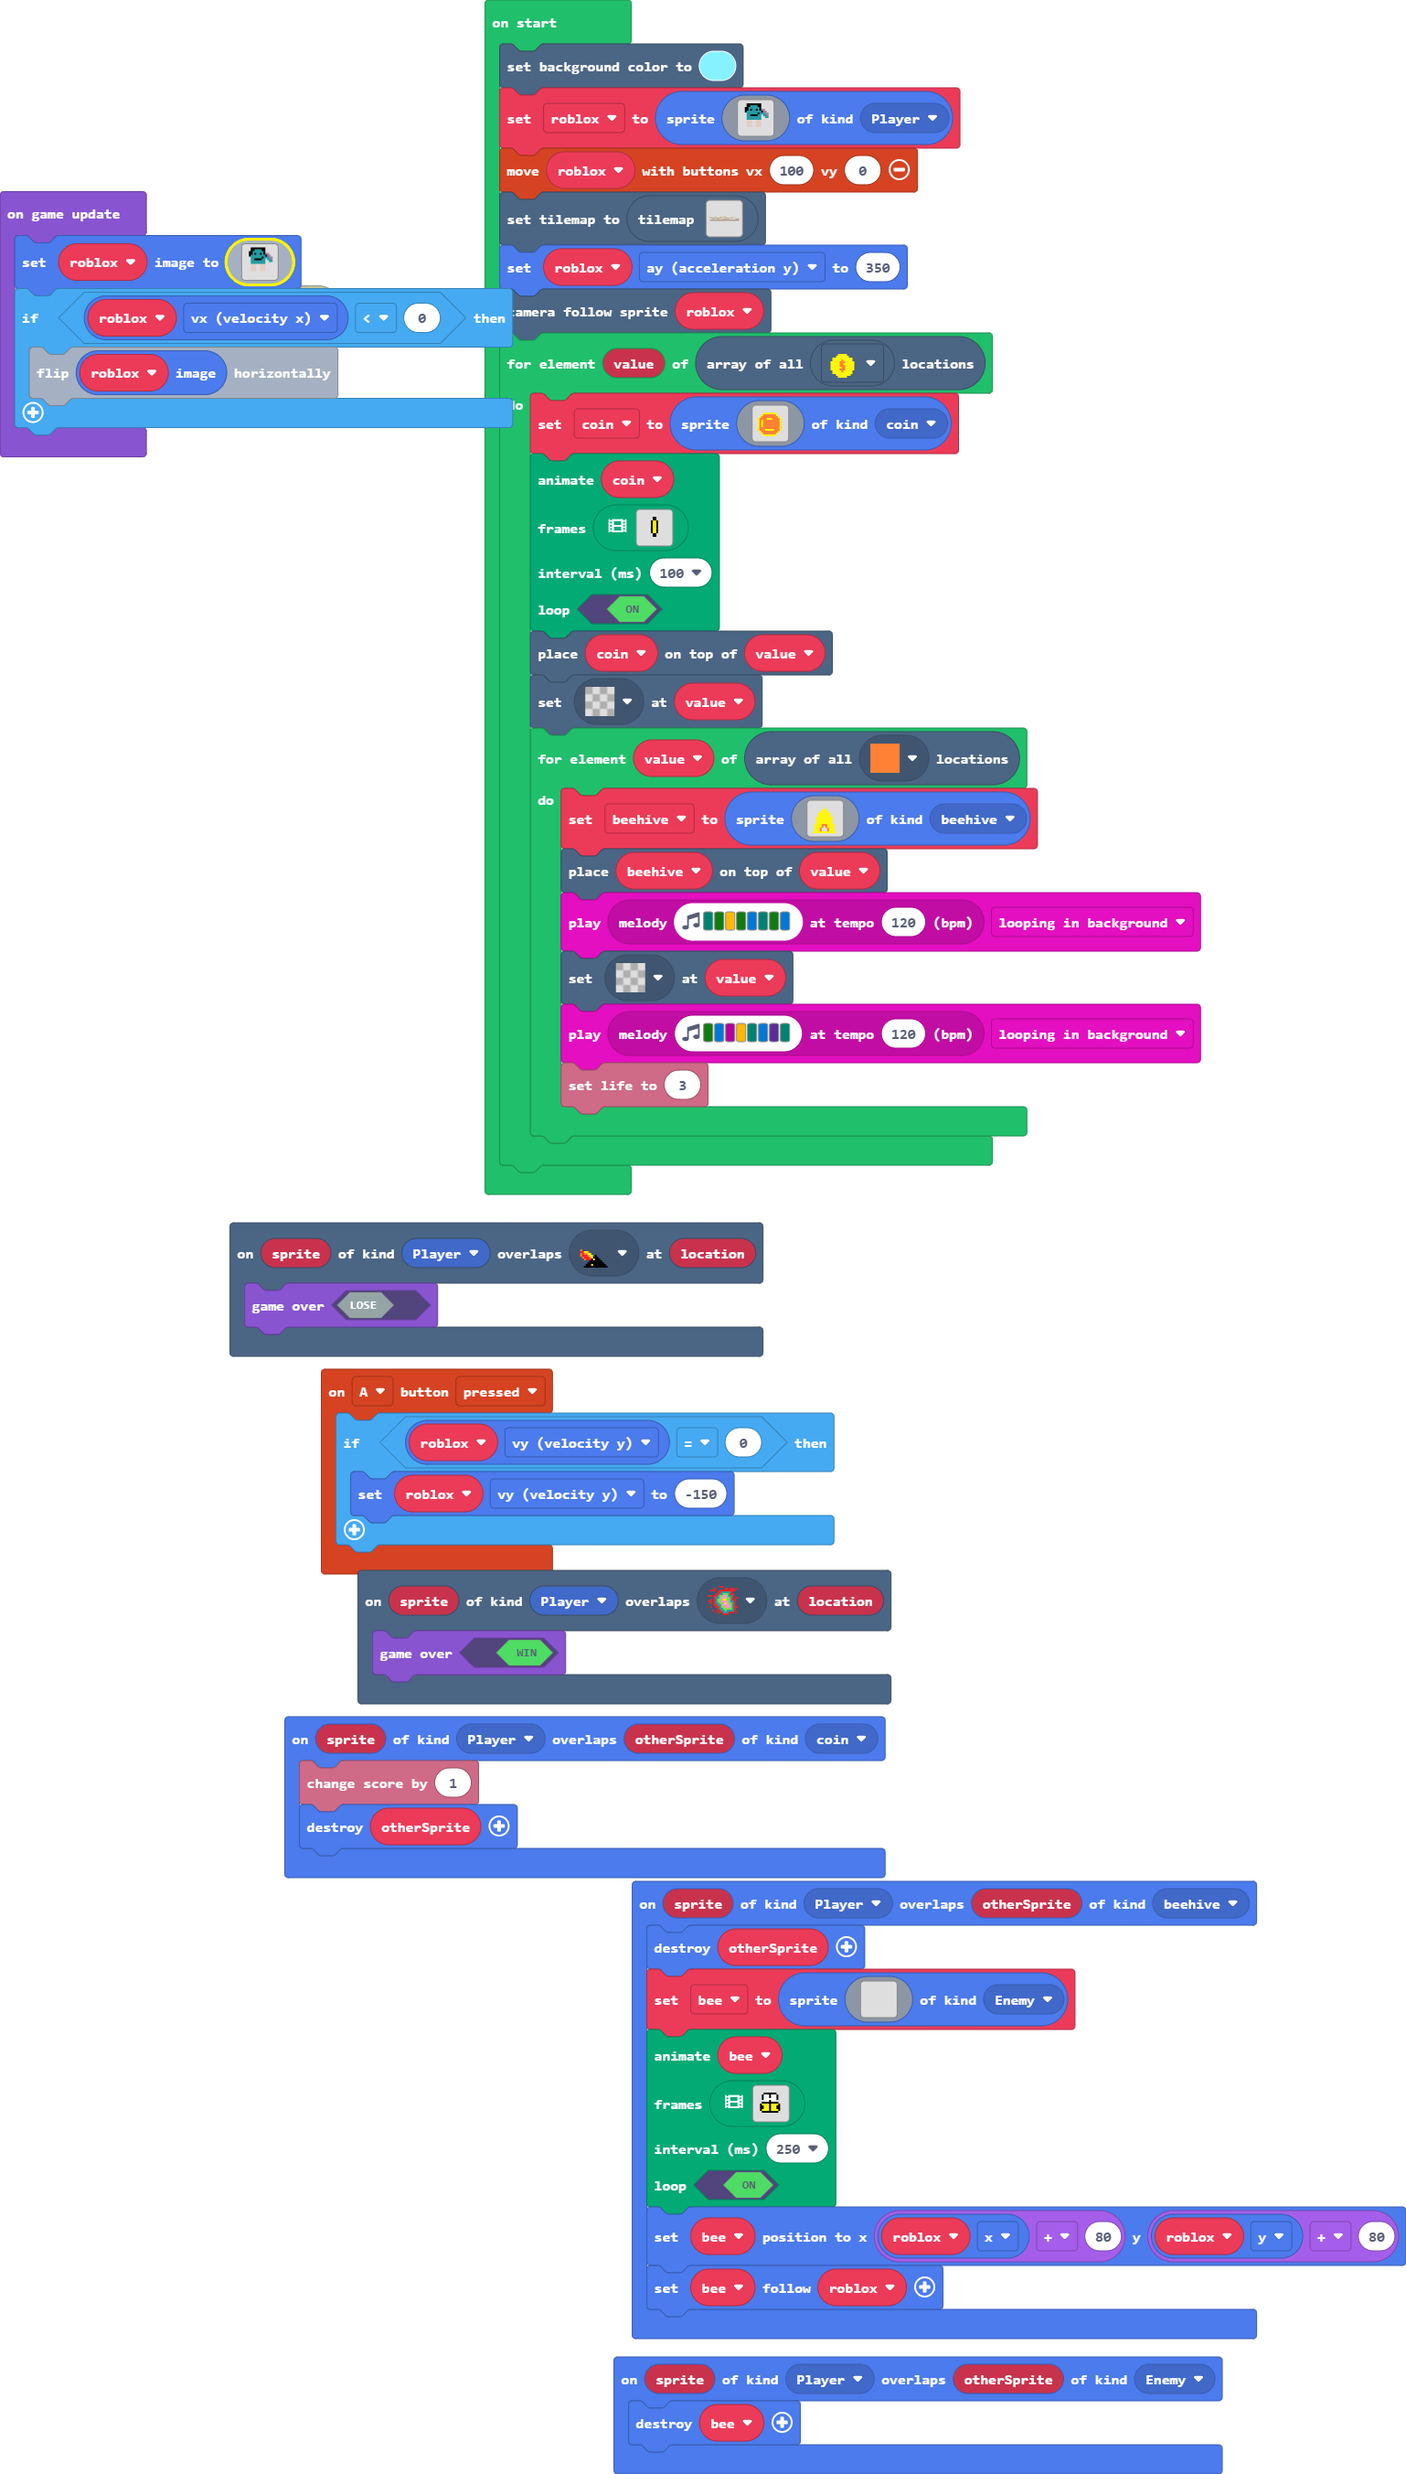
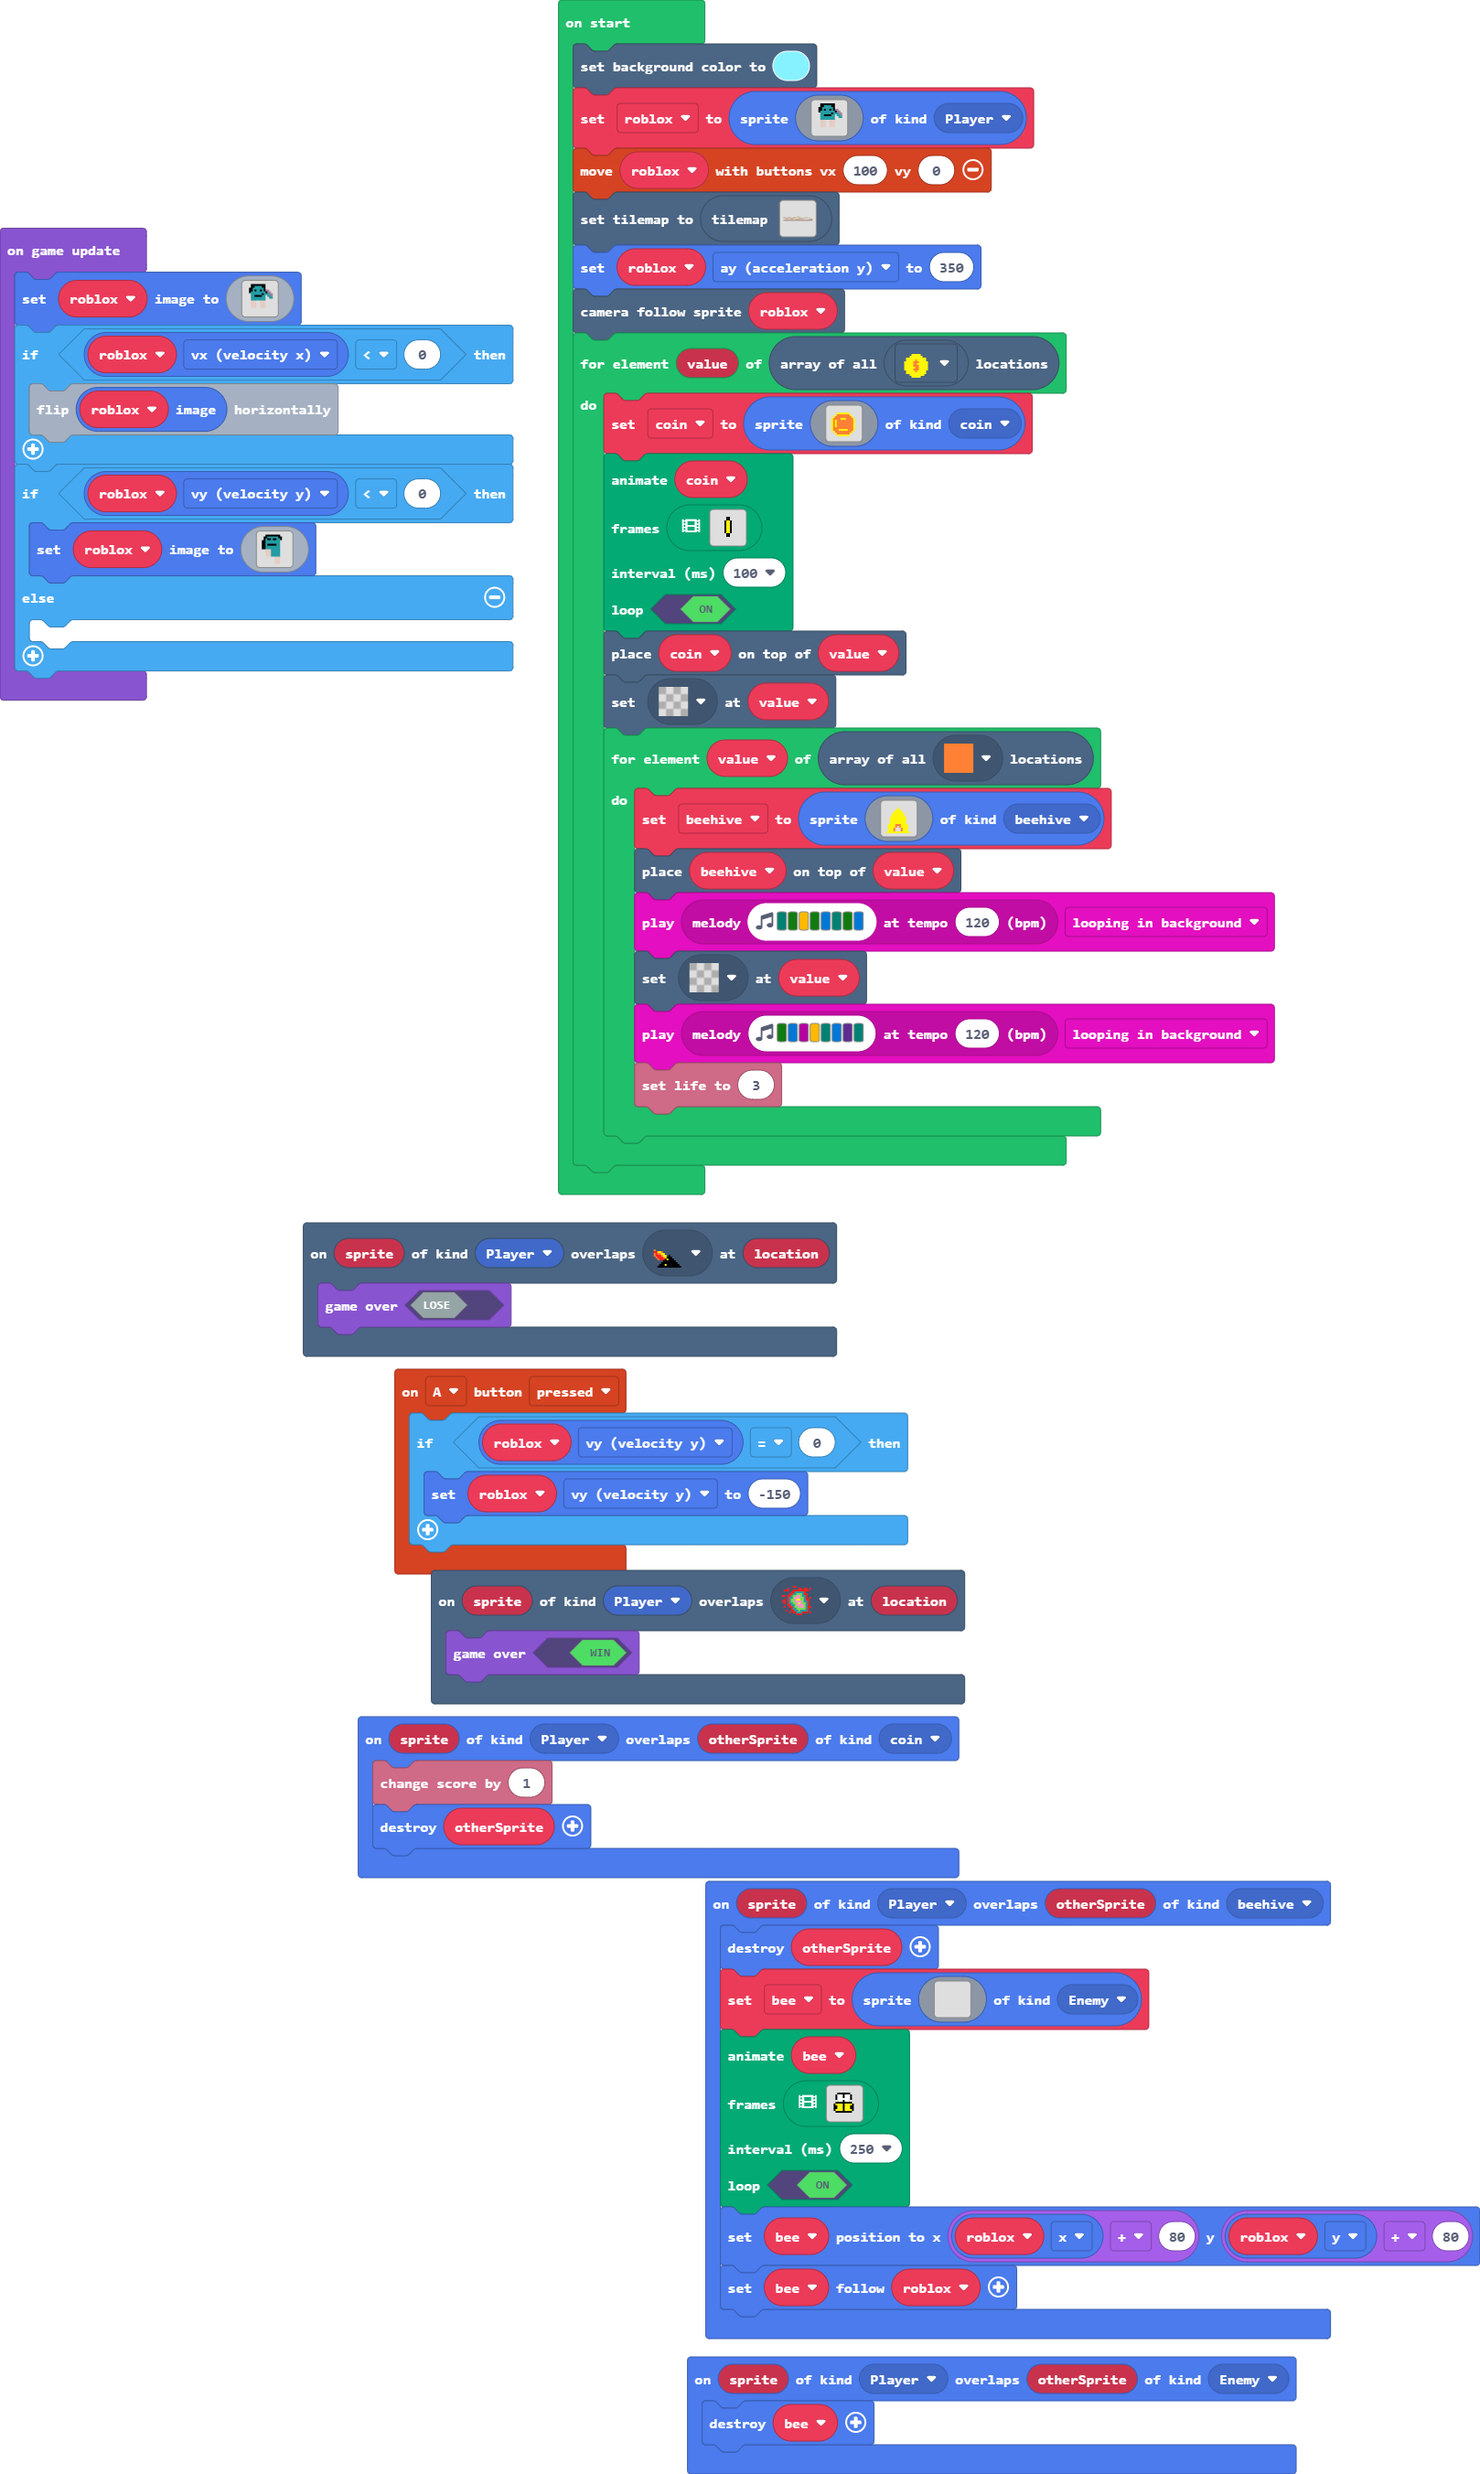
movement added

diff --git a/main.ts b/main.ts
@@ -304,4 +304,26 @@ game.onUpdate(function () {
     if (roblox.vx < 0) {
         roblox.image.flipX()
     }
+    if (roblox.vy < 0) {
+        roblox.setImage(img`
+            . . . f f f f f f f f . . . . . 
+            . . f f 6 6 6 6 6 6 f f . . . . 
+            . . f 6 f f 6 f f 6 6 f . . . . 
+            . f f 6 6 6 6 6 6 6 6 . . . . . 
+            . f f 6 6 6 6 6 6 6 6 . . . . . 
+            . f f 6 f f f f f 6 6 . . . . . 
+            . f f 6 6 6 6 6 6 6 6 . . . . . 
+            . f f 6 6 6 6 6 6 6 6 . . . . . 
+            . . . d d d 6 6 6 6 6 . . . . . 
+            . . . d d d 6 6 6 6 6 . . . . . 
+            . . . d d d 6 6 6 6 6 . . . . . 
+            . . . d d d 6 6 6 6 6 . . . . . 
+            . . . . . . . . d d d . . . . . 
+            . . . . . . . . d d d . . . . . 
+            . . . . . . . . d d d . . . . . 
+            . . . . . . . . d d d . . . . . 
+            `)
+    } else {
+    	
+    }
 })
